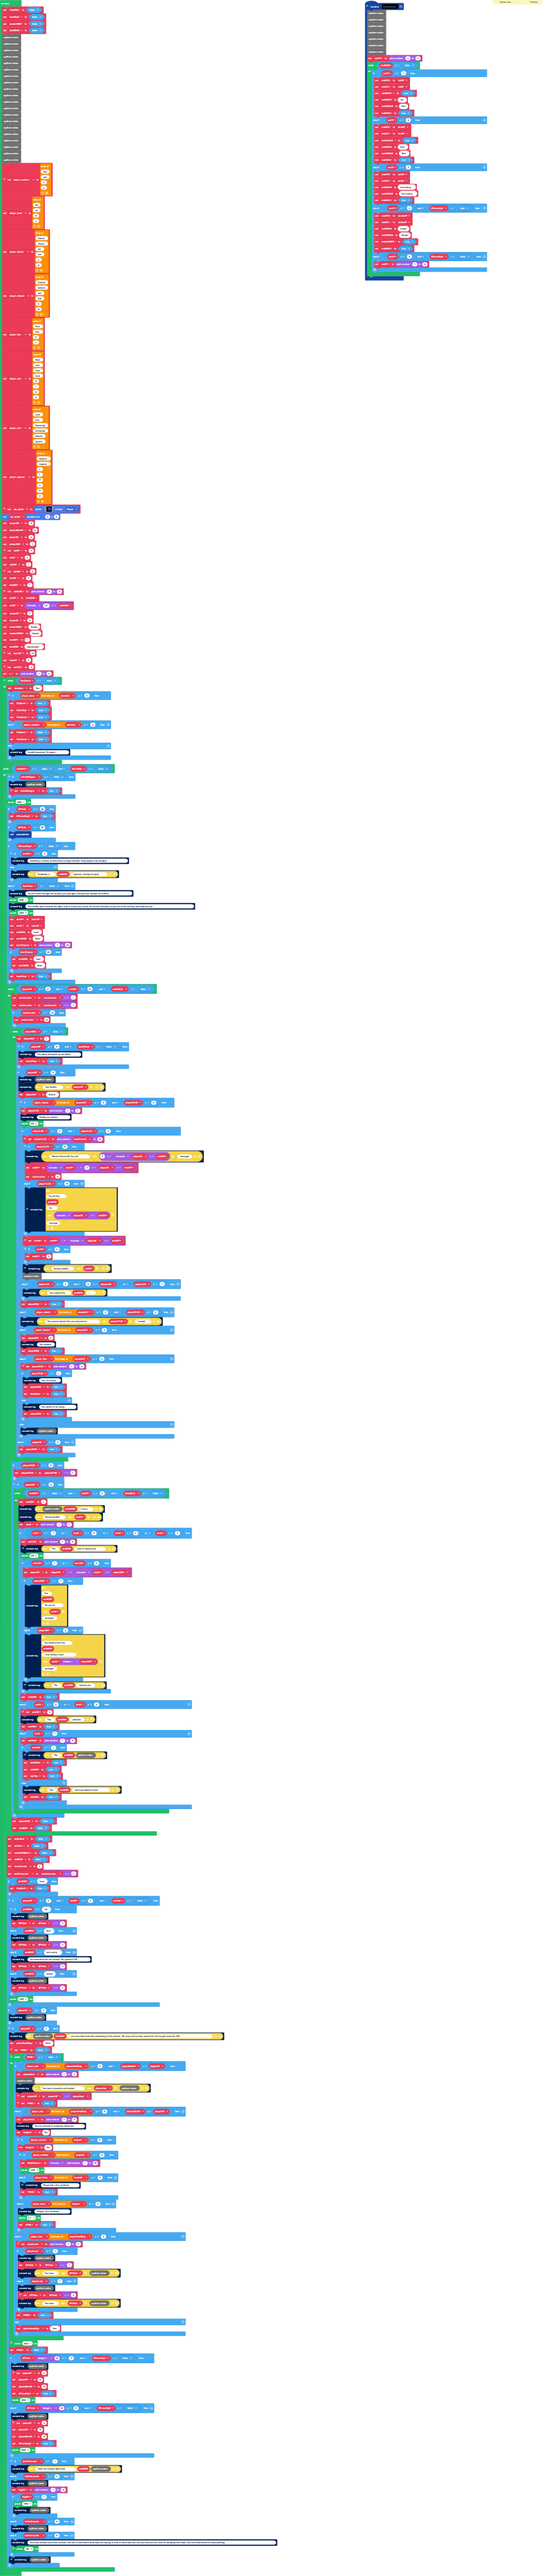
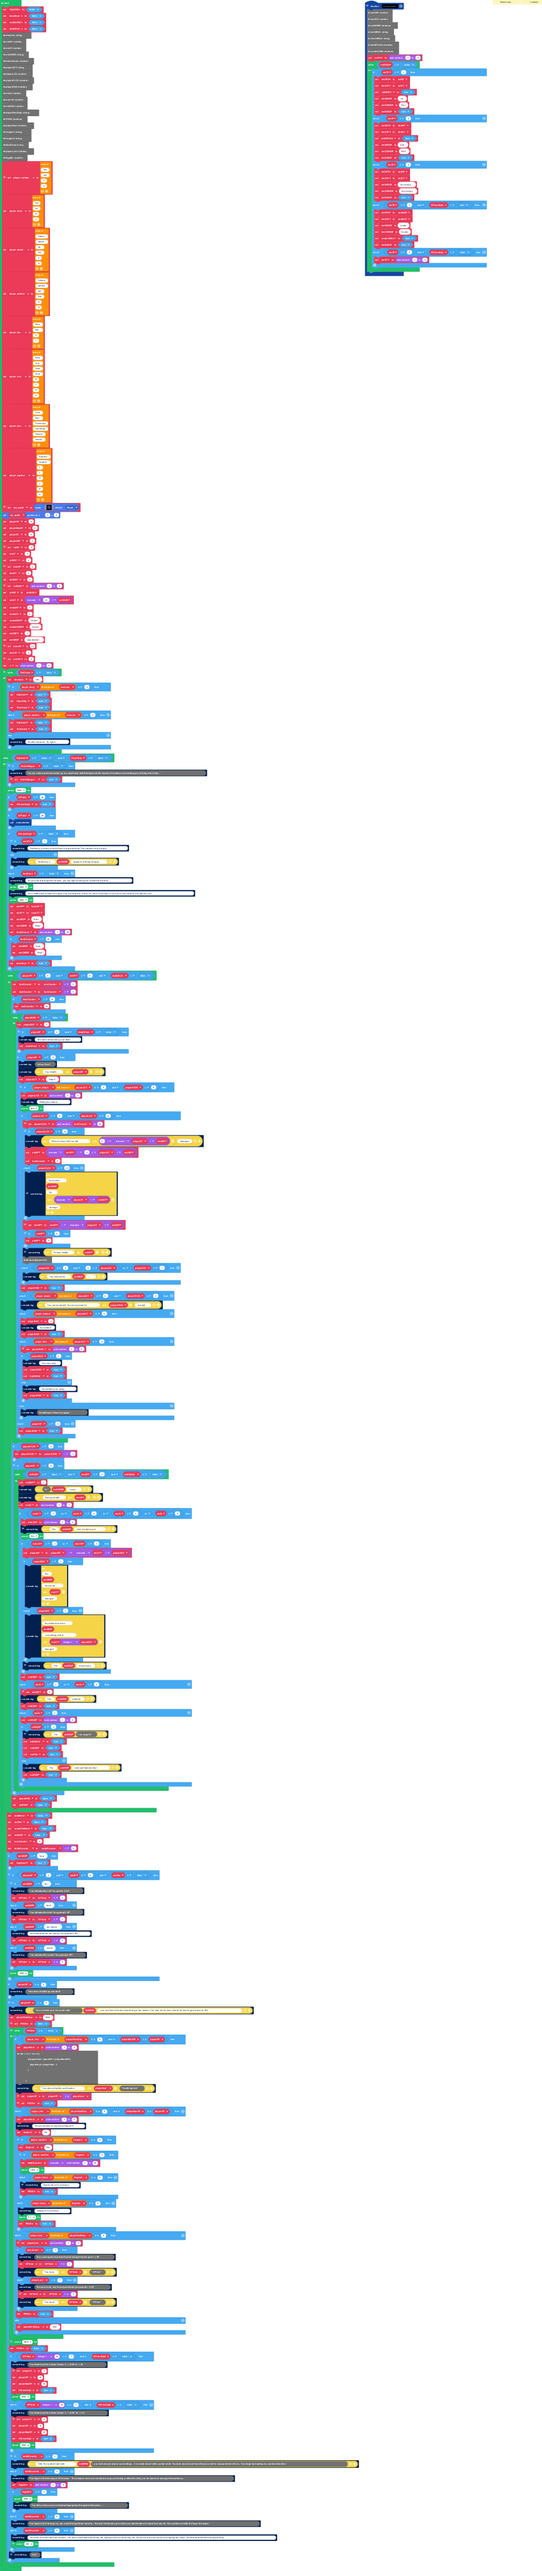
Update main.blocks, images.g.jres, images.g.ts

diff --git a/images.g.ts b/images.g.ts
@@ -47,7 +47,25 @@ namespace myImages {
 
     helpers._registerFactory("animation", function(name: string) {
         switch(helpers.stringTrim(name)) {
-
+            case "myAnim":
+            case "anim1":return [img`
+. . . . . . . . . . . . . . . . 
+. . . . . . . . . . . . . . . . 
+. . . . . . . . . . . . . . . . 
+. . . . . . . . . . . . . . . . 
+. . . . . . . . . . . . . . . . 
+. . . . . . . . . . . . . . . . 
+. . . . . . . . . . . . . . . . 
+. . . . . . . . . . . . . . . . 
+. . . . . . . . . . . . . . . . 
+. . . . . . . . . . . . . . . . 
+. . . . . . . . . . . . . . . . 
+. . . . . . . . . . . . . . . . 
+. . . . . . . . . . . . . . . . 
+. . . . . . . . . . . . . . . . 
+. . . . . . . . . . . . . . . . 
+. . . . . . . . . . . . . . . . 
+`];
         }
         return null;
     })
